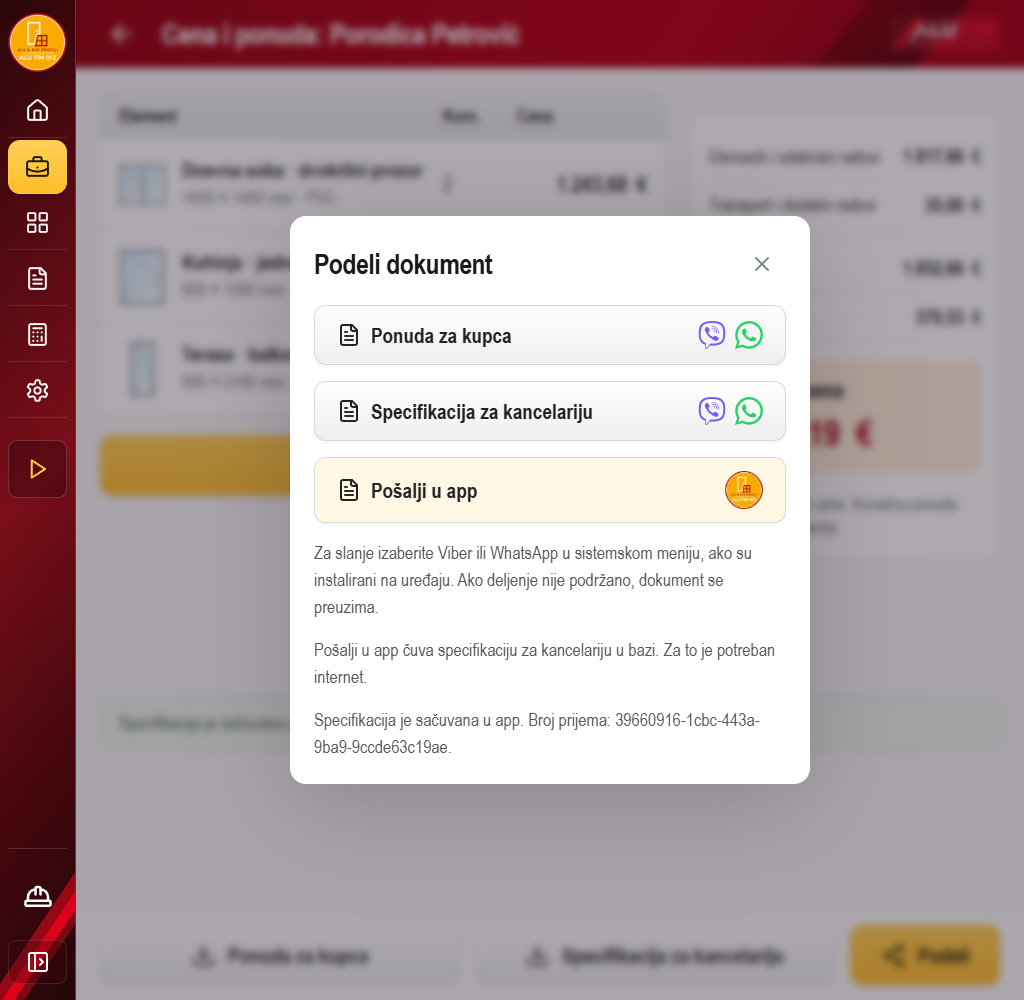
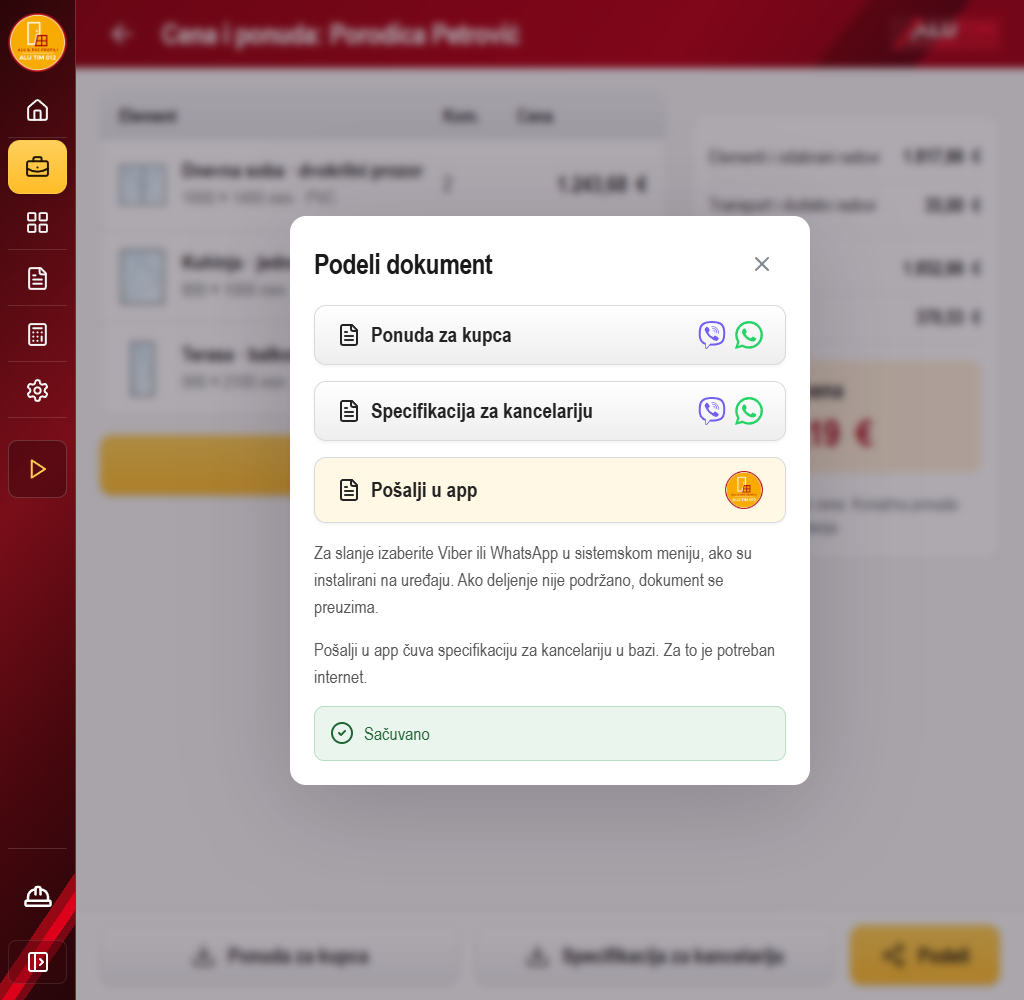
Show office submission success only inside share dialog

diff --git a/src/pages-quote.tsx b/src/pages-quote.tsx
@@ -1,7 +1,7 @@
 import { fmt } from './custom/geometry';
 import { useRef, useState } from 'react';
 import { Link, useParams } from 'react-router-dom';
-import { Download, FileText, Share2 } from 'lucide-react';
+import { CheckCircle2, Download, FileText, Share2 } from 'lucide-react';
 import { useStore } from './store';
 import { calculate, euro, validatePosition, positionPriceLabel, reviewPrice } from './services/calculation';
 import { Modal } from './components/UI';
@@ -18,11 +18,12 @@ function ShareAppIcons(){
 export function Quote(){
  const {id}=useParams(),{jobs,settings}=useStore(),job=jobs.find(j=>j.id===id);
  const pendingSubmission=useRef<OfficeSubmission|null>(null),sending=useRef(false);
+ const [officeNotice,setOfficeNotice]=useState<{text:string;kind:'progress'|'success'|'error'}|null>(null);
  const [busy,setBusy]=useState(false),[message,setMessage]=useState(''),[sharing,setSharing]=useState(false);
  if(!job)return <MissingJob/>;
  const result=calculate(job,settings),errors=job.positions.flatMap((p,i)=>validatePosition(p).map(e=>`Element ${i+1}: ${e}`)),ready=job.positions.length>0&&!errors.length;
  async function exportDocument(kind:'kupac'|'kancelarija',share=false){
-  if(!job)return;setBusy(true);setMessage('');
+  if(!job)return;setBusy(true);setMessage('');setOfficeNotice(null);
   try{const file=await makeDocument(job,settings,kind);
    if(share&&navigator.canShare?.({files:[file]})){await navigator.share({files:[file],title:`ALU TIM 012 · ${job.id}`});setMessage('Dokument je predat sistemskom dijalogu za deljenje.');}
    else{downloadFile(file);setMessage(share?'Deljenje fajlova nije podržano. PDF je pripremljen za preuzimanje.':'PDF je pripremljen za preuzimanje.');}
@@ -31,15 +32,15 @@ export function Quote(){
  }
  async function sendToOffice(){
   if(!job||sending.current)return;
-  if(!navigator.onLine){setMessage('Za slanje u app potreban je internet. Posao ostaje sačuvan na ovom uređaju.');return;}
-  sending.current=true;setBusy(true);setMessage('Pripremam specifikaciju za kancelariju…');
+  if(!navigator.onLine){setOfficeNotice({kind:'error',text:'Za slanje u app potreban je internet. Posao ostaje sačuvan na ovom uređaju.'});return;}
+  sending.current=true;setBusy(true);setOfficeNotice({kind:'progress',text:'Pripremam specifikaciju za kancelariju…'});
   try{
    const signature=submissionSignature(job,settings);
    if(pendingSubmission.current?.signature!==signature)pendingSubmission.current=await prepareOfficeSubmission(job,settings);
-   const receipt=await sendOfficeSubmission(pendingSubmission.current);
-   setMessage(`Specifikacija je sačuvana u app. Broj prijema: ${receipt.id}.`);
-   // Keep the receipt/file for safe retries of the same saved version.
-  }catch(error){setMessage((error as Error).message);}finally{sending.current=false;setBusy(false);}
+   await sendOfficeSubmission(pendingSubmission.current);
+   setOfficeNotice({kind:'success',text:'Sačuvano'});
+   // Keep the file and submission ID for safe retries of the same saved version.
+  }catch(error){setOfficeNotice({kind:'error',text:(error as Error).message});}finally{sending.current=false;setBusy(false);}
  }
  return <div className="field-page price-page"><FieldHeader title={`Cena i ponuda: ${job.customer.name}`} back={`/posao/${job.id}`}/>
  <main className="price-workspace"><div className="price-content"><section className="price-lines" aria-label="Pregled cene"><div className="price-line-head"><span>Element</span><span>Kom.</span><span>Cena</span></div>
@@ -49,9 +50,9 @@ export function Quote(){
  <Link className="field-button field-button-yellow correction-entry" to={`/posao/${job.id}/korekcija`}>Korekcija cene</Link></div>
  <aside className="price-total"><div><span>Elementi i odabrani radovi</span><strong>{euro(result.elements)}</strong></div><div><span>Transport i dodatni radovi</span><strong>{euro(result.services)}</strong></div>{result.discount>0&&<div><span>Popust {job.discountMode==='amount'?'':`${job.discount}%`}</span><strong>−{euro(result.discount)}</strong></div>}<hr/>{result.surcharge>0&&<div><span>Uvećanje</span><strong>{euro(result.surcharge)}</strong></div>}{result.manual&&<p>Ručna ukupna cena — popust i uvećanje se ne primenjuju.</p>}<div><span>Osnovica</span><strong>{euro(result.net)}</strong></div><div><span>{result.vatMode==='none'?'Bez obračuna PDV-a':`PDV ${result.vat}%${result.vatMode==='inclusive'?' (uključen)':''}`}</span><strong>{euro(result.tax)}</strong></div><section><h2>{result.hasUnpriced?'Zbir poznatih stavki':'Okvirna cena'}</h2><strong data-testid="quote-total">{euro(result.total)}</strong></section><p>{result.hasUnpriced?reviewPrice+'. Zbir ne uključuje elemente bez ručne cene.':'Demonstracione cene. Konačnu ponudu potvrđuje kancelarija.'}</p></aside>
  {errors.length>0&&<div className="field-error" role="alert">{errors.map((e,i)=><p key={i}>{e}</p>)}<Link to={`/posao/${job.id}`}>Ispravite mere u poslu</Link></div>}
- {message&&<p className="field-message" role="status">{message}</p>}
+ {message&&!sharing&&<p className="field-message" role="status">{message}</p>}
  </main>
- <footer className="field-bottom-actions document-actions"><button className="field-button field-button-light" disabled={!ready||busy} onClick={()=>exportDocument('kupac')}><Download/>{busy?'Pripremam…':'Ponuda za kupca'}</button><button className="field-button field-button-light" disabled={!ready||busy} onClick={()=>exportDocument('kancelarija')}><Download/>Specifikacija za kancelariju</button><button className="field-button field-button-yellow" aria-label="Podeli dokument" disabled={!ready||busy} onClick={()=>setSharing(true)}><Share2/><span>Podeli</span></button></footer>
- {sharing&&<Modal title="Podeli dokument" onClose={()=>setSharing(false)}><div className="share-choices"><button className="field-button field-button-light share-document-choice" aria-label="Ponuda za kupca" disabled={busy} onClick={()=>exportDocument('kupac',true)}><FileText/><span>Ponuda za kupca</span><ShareAppIcons/></button><button className="field-button field-button-light share-document-choice" aria-label="Specifikacija za kancelariju" disabled={busy} onClick={()=>exportDocument('kancelarija',true)}><FileText/><span>Specifikacija za kancelariju</span><ShareAppIcons/></button><button className="field-button field-button-light share-document-choice" aria-label="Pošalji u app" disabled={busy} onClick={sendToOffice}><FileText/><span>{busy?'Šaljem…':'Pošalji u app'}</span><img className="share-company-logo" src="/assets/logo.png" alt="ALU TIM 012"/></button><p>Za slanje izaberite Viber ili WhatsApp u sistemskom meniju, ako su instalirani na uređaju. Ako deljenje nije podržano, dokument se preuzima.</p><p>Pošalji u app čuva specifikaciju za kancelariju u bazi. Za to je potreban internet.</p>{message&&<p role="status">{message}</p>}</div></Modal>}
+ <footer className="field-bottom-actions document-actions"><button className="field-button field-button-light" disabled={!ready||busy} onClick={()=>exportDocument('kupac')}><Download/>{busy?'Pripremam…':'Ponuda za kupca'}</button><button className="field-button field-button-light" disabled={!ready||busy} onClick={()=>exportDocument('kancelarija')}><Download/>Specifikacija za kancelariju</button><button className="field-button field-button-yellow" aria-label="Podeli dokument" disabled={!ready||busy} onClick={()=>{setMessage('');setOfficeNotice(null);setSharing(true);}}><Share2/><span>Podeli</span></button></footer>
+ {sharing&&<Modal title="Podeli dokument" onClose={()=>{setSharing(false);setOfficeNotice(null);}}><div className="share-choices"><button className="field-button field-button-light share-document-choice" aria-label="Ponuda za kupca" disabled={busy} onClick={()=>exportDocument('kupac',true)}><FileText/><span>Ponuda za kupca</span><ShareAppIcons/></button><button className="field-button field-button-light share-document-choice" aria-label="Specifikacija za kancelariju" disabled={busy} onClick={()=>exportDocument('kancelarija',true)}><FileText/><span>Specifikacija za kancelariju</span><ShareAppIcons/></button><button className="field-button field-button-light share-document-choice" aria-label="Pošalji u app" disabled={busy} onClick={sendToOffice}><FileText/><span>{busy?'Šaljem…':'Pošalji u app'}</span><img className="share-company-logo" src="/assets/logo.png" alt="ALU TIM 012"/></button><p>Za slanje izaberite Viber ili WhatsApp u sistemskom meniju, ako su instalirani na uređaju. Ako deljenje nije podržano, dokument se preuzima.</p><p>Pošalji u app čuva specifikaciju za kancelariju u bazi. Za to je potreban internet.</p>{officeNotice?<p role="status" className={`office-notice office-notice-${officeNotice.kind}`}>{officeNotice.kind==='success'&&<CheckCircle2 aria-hidden="true"/>}{officeNotice.text}</p>:message&&<p role="status">{message}</p>}</div></Modal>}
  </div>;
 }

diff --git a/tests/office-send.spec.ts b/tests/office-send.spec.ts
@@ -26,11 +26,12 @@ for(const width of [390,620,1024])test(`Slanje kancelarijske specifikacije bez p
  await expect(dialog.getByRole('link',{name:'Pripremi email'})).toHaveCount(0);
  const send=dialog.getByRole('button',{name:'Pošalji u app',exact:true});await expect(send.getByAltText('ALU TIM 012')).toBeVisible();
  await expect(dialog.locator('input')).toHaveCount(0);
- await send.click();await expect(dialog.getByRole('status')).toContainText('Specifikacija je sačuvana u app.');
+ await send.click();await expect(dialog.getByRole('status')).toHaveText('Sačuvano');
+ await expect(dialog.getByRole('status')).toHaveClass(/office-notice-success/);await expect(page.locator('.price-workspace [role=status]')).toHaveCount(0);await expect(dialog).not.toContainText('Broj prijema');
  expect(received).toHaveLength(1);expect(received[0]).toMatchObject({job_id:'AT-2026-012',customer_name:'Porodica Petrović',position_count:3});
- await send.click();await expect(dialog.getByRole('status')).toContainText('Specifikacija je sačuvana u app.');expect(received).toHaveLength(2);expect(received[0].id).toBe(received[1].id);
+ await send.click();await expect(dialog.getByRole('status')).toHaveText('Sačuvano');expect(received).toHaveLength(2);expect(received[0].id).toBe(received[1].id);
  expect(await page.evaluate(()=>localStorage.getItem('alu-tim-teren-v1'))).toBe(original);
- expect(await dialog.evaluate(el=>el.scrollWidth<=el.clientWidth)).toBeTruthy();await page.screenshot({path:path.join(folder,`poslato-${width}.png`)});
+ expect(await dialog.evaluate(el=>el.scrollWidth<=el.clientWidth)).toBeTruthy();await page.screenshot({path:path.join(folder,`poslato-${width}.png`)});await dialog.getByRole('button',{name:'Zatvori',exact:true}).click();await expect(page.getByRole('status')).toHaveCount(0);await page.getByRole('button',{name:'Podeli dokument',exact:true}).click();await expect(page.getByRole('status')).toHaveCount(0);
 });
 
 test('Greška i offline ne prikazuju lažnu potvrdu i omogućavaju ponovno slanje',async({page,context})=>{
@@ -39,5 +40,5 @@ test('Greška i offline ne prikazuju lažnu potvrdu i omogućavaju ponovno slanj
  await page.goto('/posao/AT-2026-012/ponuda');await page.getByRole('button',{name:'Podeli dokument',exact:true}).click();const dialog=page.getByRole('dialog',{name:'Podeli dokument'}),send=dialog.getByRole('button',{name:'Pošalji u app',exact:true});
  await context.setOffline(true);await send.click();await expect(dialog.getByRole('status')).toContainText('potreban je internet');expect(attempts).toBe(0);await context.setOffline(false);
  await send.click();await expect(dialog.getByRole('status')).toContainText('Baza trenutno nije dostupna');await expect(send).toBeEnabled();
- await send.click();await expect(dialog.getByRole('status')).toContainText('Specifikacija je sačuvana u app.');expect(ids[0]).toBe(ids[1]);
+ await send.click();await expect(dialog.getByRole('status')).toHaveText('Sačuvano');expect(ids[0]).toBe(ids[1]);
 });

diff --git a/src/workflow.css b/src/workflow.css
@@ -45,3 +45,8 @@
 .unified-shell .job-quick-actions>.summary-more-offer{grid-column:1/-1;min-height:54px;color:#281900;font-size:20px}
 
 .share-company-logo{display:block;width:38px;height:38px;object-fit:contain;justify-self:end}
+
+.share-choices>.office-notice{display:flex;align-items:center;gap:10px;margin:0;padding:13px 15px;border:1px solid #d9dde3;border-radius:10px;font:400 20px/1.3 AluNarrow,Arial,sans-serif}
+.share-choices>.office-notice-success{background:#eaf6ed;border-color:#b7ddc2;color:#216536;font-weight:700}
+.share-choices>.office-notice-error{background:#fff1f1;border-color:#edc8c8;color:#9e202b}
+.office-notice>svg{width:24px;height:24px;flex-shrink:0}
